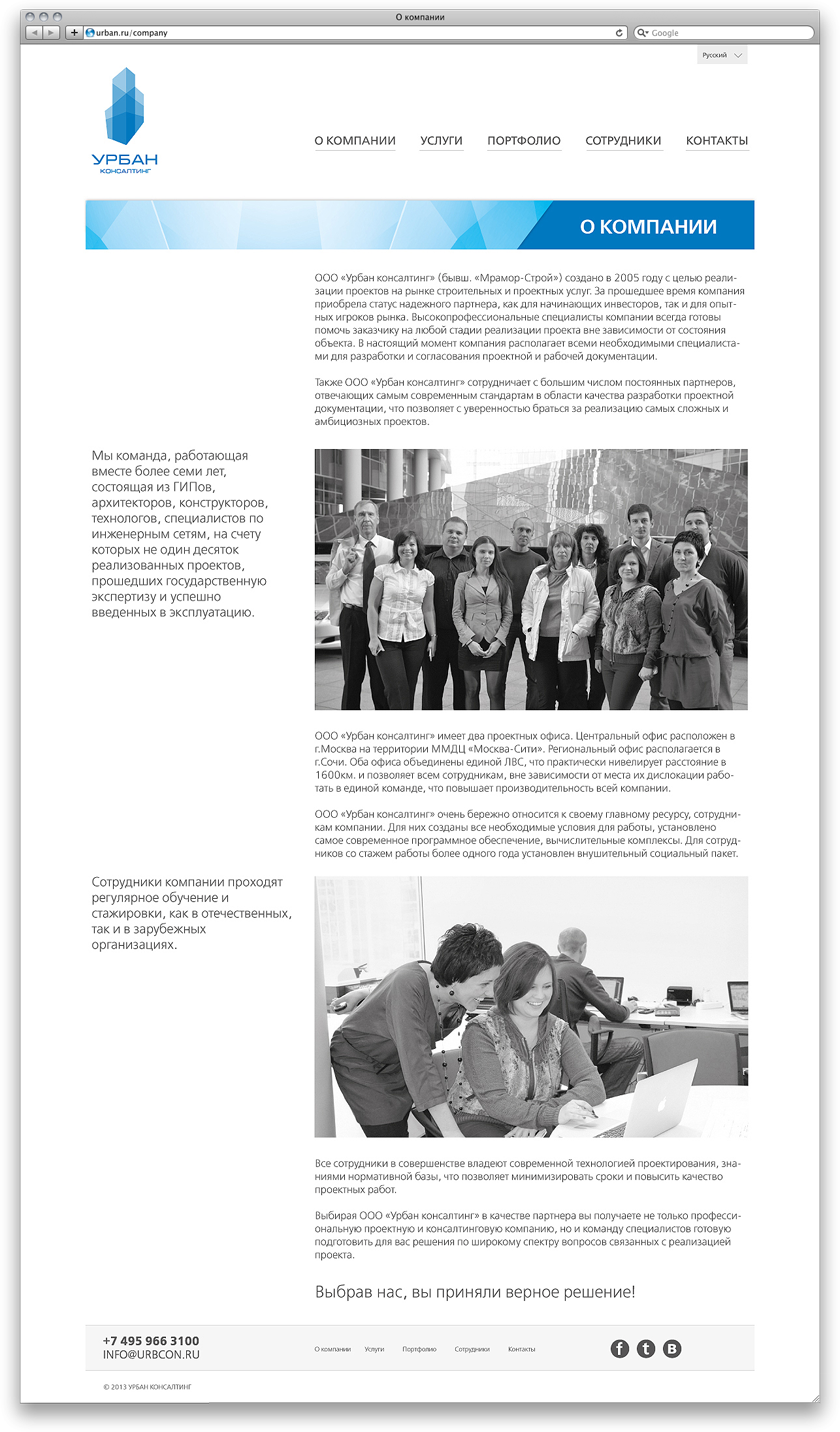
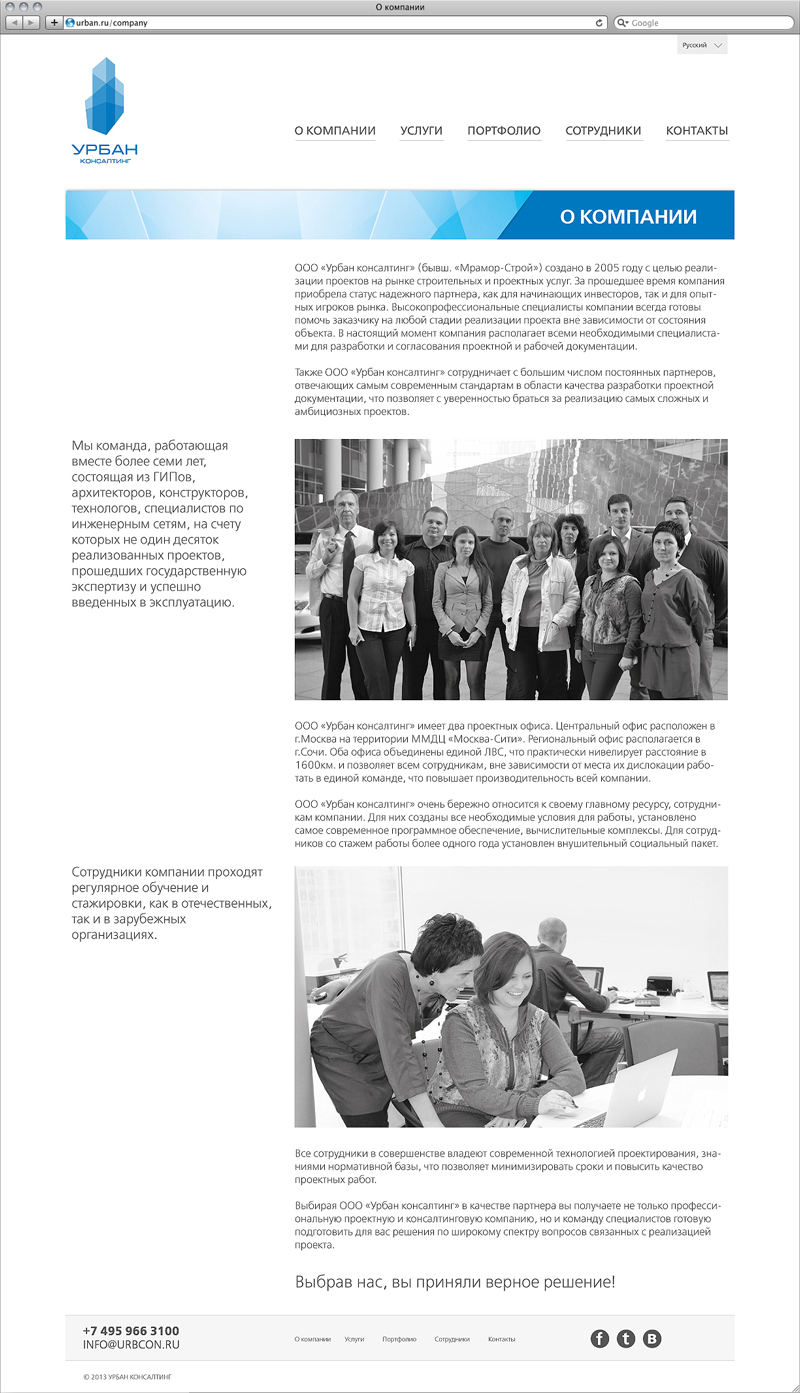
Project imgs shadow

Changed region(s): [[0.0, 0.0, 1.0, 1.0], [0.0938, 0.3087, 0.3125, 0.4322], [0.0938, 0.6174, 0.3438, 0.6791]]

diff --git a/www/css/home.css b/www/css/home.css
@@ -830,8 +830,17 @@ label[for="service"]{
 	font-family: 'HelveticaNeueCyrLight', Helvetica, Arial, sans-serif;
 	color: #FFF;
 }
+.p-slide-item{
+	margin-bottom: 30px;
+	text-align: center;
+}
 .p-slide-item img{
-	width: 900px;
+	width: 880px;
+	box-shadow: 0 0 30px 0px #000;
+	-webkit-weblit-box-shadow: 0 0 30px 0px #000;
+	-moz-weblit-box-shadow: 0 0 30px 0px #000;
+	-ms-weblit-box-shadow: 0 0 30px 0px #000;
+	-o-weblit-box-shadow: 0 0 30px 0px #000;
 }
 .p-description{
 	margin: 0 0 40px 20px;

diff --git a/www/css/project.css b/www/css/project.css
@@ -97,9 +97,18 @@
 	font-family: 'HelveticaNeueCyrLight', Helvetica, Arial, sans-serif;
 	color: #FFF;
 }
+
+.p-slide-item{
+	margin-bottom: 30px;
+	text-align: center;
+}
 .p-slide-item img{
-	width: 900px;
-	margin-left: -20px;
+	width: 880px;
+	box-shadow: 0 0 30px 0px #000;
+	-webkit-weblit-box-shadow: 0 0 30px 0px #000;
+	-moz-weblit-box-shadow: 0 0 30px 0px #000;
+	-ms-weblit-box-shadow: 0 0 30px 0px #000;
+	-o-weblit-box-shadow: 0 0 30px 0px #000;
 }
 .p-description{
 	margin: 0 0 40px;

diff --git a/www/css/projects.css b/www/css/projects.css
@@ -126,8 +126,17 @@
 	font-family: 'HelveticaNeueCyrLight', Helvetica, Arial, sans-serif;
 	color: #FFF;
 }
+.p-slide-item{
+	margin-bottom: 30px;
+	text-align: center;
+}
 .p-slide-item img{
-	width: 900px;
+	width: 880px;
+	box-shadow: 0 0 30px 0px #000;
+	-webkit-weblit-box-shadow: 0 0 30px 0px #000;
+	-moz-weblit-box-shadow: 0 0 30px 0px #000;
+	-ms-weblit-box-shadow: 0 0 30px 0px #000;
+	-o-weblit-box-shadow: 0 0 30px 0px #000;
 }
 .p-description{
 	margin: 0 0 40px 20px;
